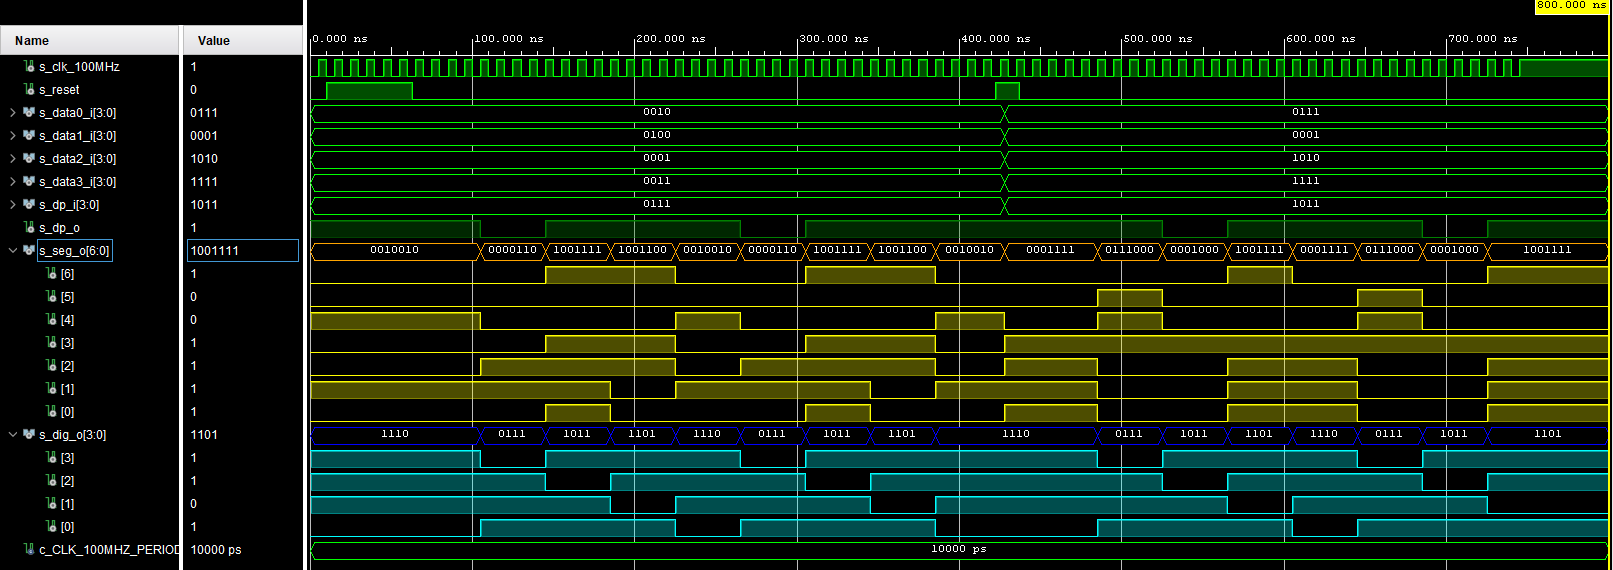
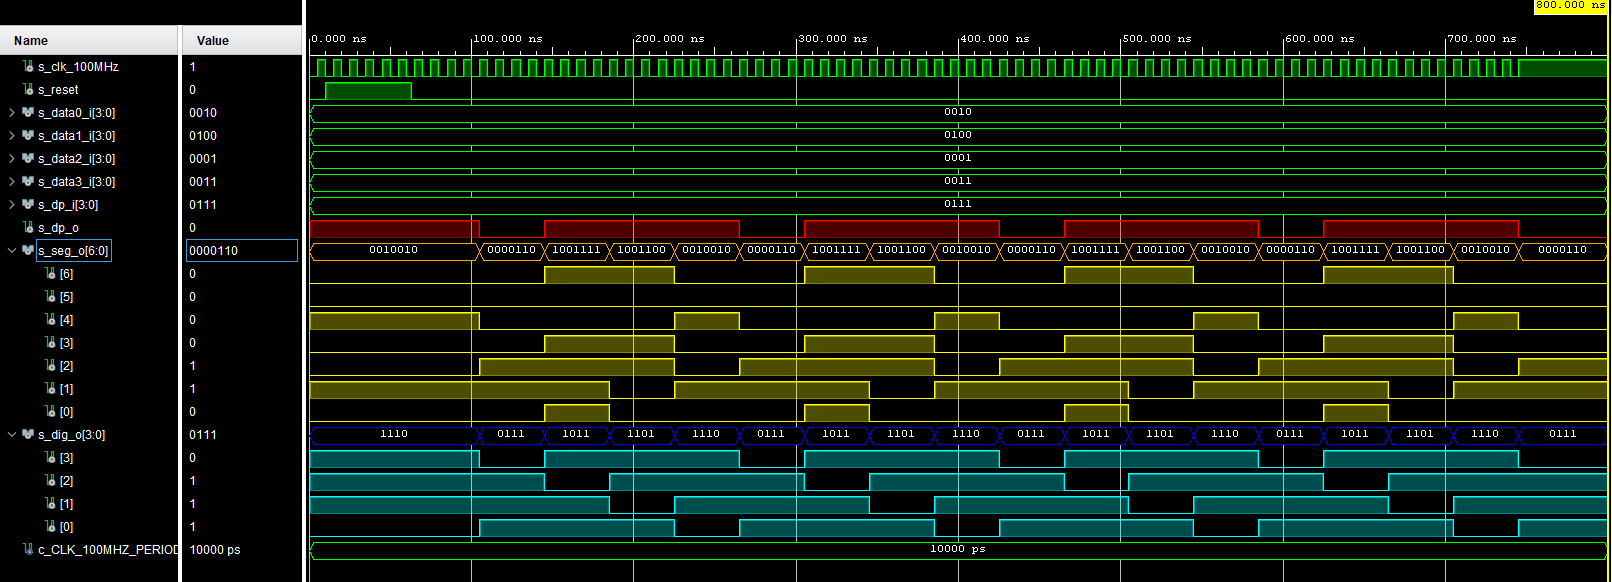
Update LAB06

diff --git a/Labs/06-display_driver/README.md b/Labs/06-display_driver/README.md
@@ -141,15 +141,6 @@ begin
         wait for 359 ns;
         assert(s_seg_o = "0010010")
         report "Test failed for reset value 0" severity error;
-
-        s_reset <= '1';
-        wait for 15 ns;
-        assert(s_seg_o = "0001111")
-        report "Test failed for reset value 1" severity error;
-
-        s_reset <= '0';
-        assert(s_seg_o = "0001111")
-        report "Test failed for reset value 0" severity error;
         wait;
     end process p_reset_gen;
     --------------------------------------------------------------------
@@ -165,18 +156,34 @@ begin
         s_data1_i <= "0100";
         s_data0_i <= "0010";
         s_dp_i    <= "0111";
-        wait for 428 ns;
-        assert(s_seg_o = "0010010")
-        report "Test failed for value 3.142" severity error;
 
-        s_data3_i <= "1111";
-        s_data2_i <= "1010";
-        s_data1_i <= "0001";
-        s_data0_i <= "0111";
-        s_dp_i    <= "1011";
-        wait for 260 ns;
-        assert(s_seg_o = "0001000")
-        report "Test failed for value FA.17" severity error;
+        wait for 145 ns;
+        assert(s_seg_o = "0000110" and s_dig_o = "0111")
+        report "Test failed for value 3" severity error;
+
+        assert(s_dp_o = '0')
+        report "Test failed for a dot during the value 3" severity error;
+
+        wait for 40 ns;
+        assert(s_seg_o = "1001111" and s_dig_o = "1011")
+        report "Test failed for value 1" severity error;
+
+        assert(s_dp_o = '1')
+        report "Test failed for a dot during the value 1" severity error;
+
+        wait for 40 ns;
+        assert(s_seg_o = "1001100" and s_dig_o = "1101")
+        report "Test failed for value 4" severity error;
+
+        assert(s_dp_o = '1')
+        report "Test failed for a dot during the value 4" severity error;
+
+        wait for 40 ns;
+        assert(s_seg_o = "0010010" and s_dig_o = "1110")
+        report "Test failed for value 2" severity error;
+
+        assert(s_dp_o = '1')
+        report "Test failed for a dot during the value 2" severity error;
 
         report "Stimulus process finished" severity note;
         wait;
